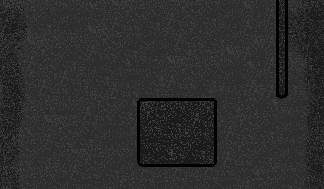
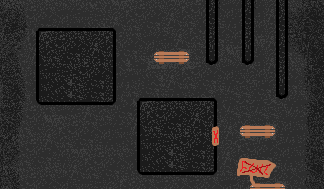
1.13

diff --git a/król spadania/v1.1/system.js b/król spadania/v1.1/system.js
@@ -201,7 +201,7 @@ function SprawdzGraniceMapy()
         if(WykonujeSkok==true)
         {
             Odbilsie=1;
-            CzyLewo*=(-1)/2;
+            CzyLewo*=(-1)/2*(Skok/100);
         }
     }
     if(PozycjaX < 0)
@@ -211,7 +211,7 @@ function SprawdzGraniceMapy()
         if(WykonujeSkok == true)
         {
             Odbilsie=1;
-            CzyLewo*=(-1)/2;
+            CzyLewo*=(-1)/2*(Skok/100);
         }
     }
     if(PozycjaY < 0) //do przodu
@@ -301,7 +301,7 @@ function DwaZera(num, Totalength)
 //[id,kolor,height,width]
 var id = [
     [0,"pink",25,OknoX],
-    [1,"lightgreen",25,200],
+    [1,"lightgreen",25,450],
     [2,"brown",25,150],
     [3,"blue",25,100],
     [4,"yellow",25,50],

diff --git a/król spadania/v1.1/mapa.js b/król spadania/v1.1/mapa.js
@@ -46,10 +46,20 @@ var mapa=[
         [3,8,555],[3,230,316],[3,743,223]
     ],
     [
-        
+        [3,840,615],[3,808,423],[3,520,175],[10,695,-40],[10,815,-40],[12,928,-310],[11,465,330],[11,130,100]
     ],
     [
-
+        [10,695,-130],[10,815,550],[12,928,0],[10,695,540],[10,200,120],[3,610,225],[5,895,415]
+    ],
+    [
+        [3,623,310],[10,695,540],[10,928,-60],[10,928,440],[11,190,115]
+    ],
+    [
+        [1,480,507],[3,486,146],[12,928,290]
+    ],
+    [
+        
     ]
+
 
 ];

diff --git a/król spadania/v1.1/kolizje.js b/król spadania/v1.1/kolizje.js
@@ -103,7 +103,7 @@ function Kolizje()
                     }
                     if(ListaAktualnychObiektowDoKolizji[i][2]=="nalewo" || ListaAktualnychObiektowDoKolizji[i][2]=="naprawo")
                     {
-                        CzyLewo*=(-1)/2;
+                        CzyLewo*=(-1)/2*(Skok/100);
                         Odbilsie=1;
                     }
                 }
